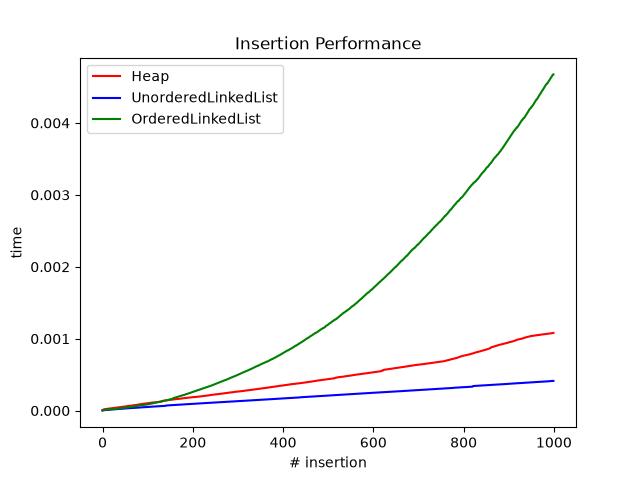
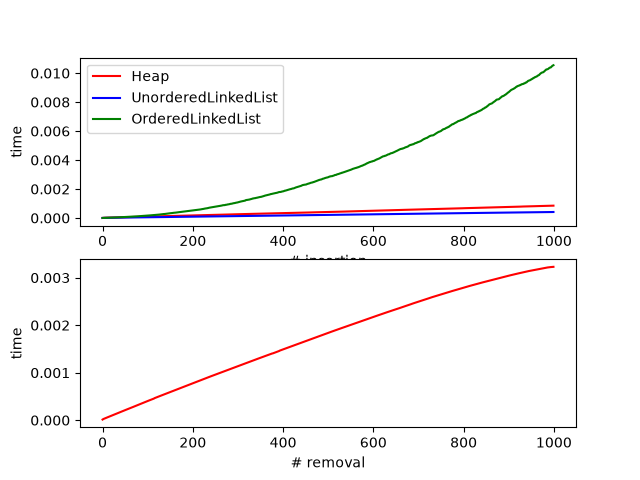
added way to plot removal of max

diff --git a/PicchioniEs1LabAlg.py b/PicchioniEs1LabAlg.py
@@ -298,30 +298,50 @@ def measure_insert_time(data, elements, output):
         output.append(end - start)
 
 
+def measure_get_max(data, n, output):
+    start = timer()
+    # _ so linters and such know that the index isn't important
+    for _ in range(n):
+        data.remove_max()
+        end = timer()
+        output.append(end - start)
+
+
 number_of_elements = 1000
 number_of_operation = range(number_of_elements)
 interval_start = 1
 interval_end = 300
-test = random.choices(range(interval_start, interval_end), k=number_of_elements)
+inputs = random.choices(range(interval_start, interval_end), k=number_of_elements)
+plt.subplot(2, 1, 1)
 
 time_per_operation = []
 max_heap = Heap()
-measure_insert_time(max_heap, test, time_per_operation)
+measure_insert_time(max_heap, inputs, time_per_operation)
 plt.plot(number_of_operation, time_per_operation, "r", label="Heap")
 
 time_per_operation = []
 unordered_list = LinkedList()
-measure_insert_time(unordered_list, test, time_per_operation)
+measure_insert_time(unordered_list, inputs, time_per_operation)
 plt.plot(number_of_operation, time_per_operation, "b", label="UnorderedLinkedList")
 
 time_per_operation = []
 ordered_list = OrderedLinkedList()
-measure_insert_time(ordered_list, test, time_per_operation)
+measure_insert_time(ordered_list, inputs, time_per_operation)
 plt.plot(number_of_operation, time_per_operation, "g", label="OrderedLinkedList")
 
 
-plt.title("Insertion Performance")
 plt.xlabel("# insertion")
 plt.ylabel("time")
 plt.legend(loc="upper left")
+
+
+plt.subplot(2, 1, 2)
+time_per_operation = []
+max_heap = Heap(inputs)
+measure_get_max(max_heap, number_of_elements, time_per_operation)
+plt.plot(number_of_operation, time_per_operation, "r", label="Heap")
+
+plt.xlabel("# removal")
+plt.ylabel("time")
+
 plt.savefig("max_heap.png")
